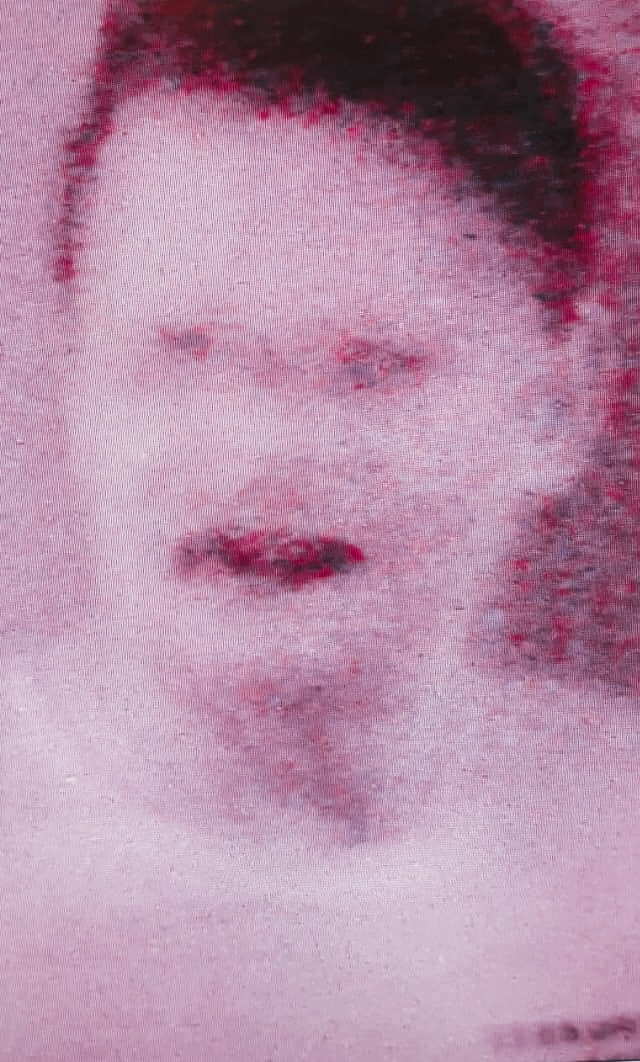
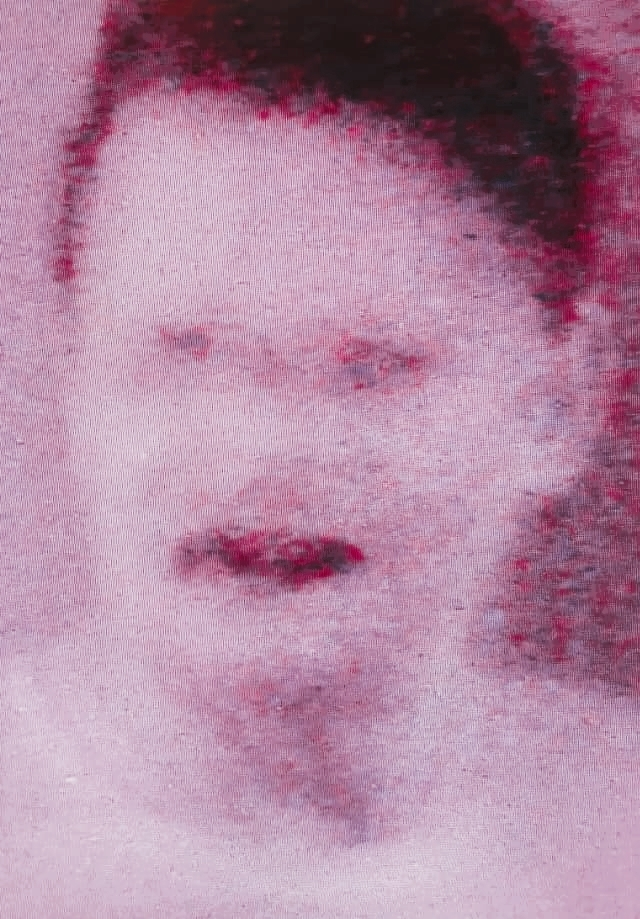
adjust image size and correct spelling in #about-us section

diff --git a/index.html b/index.html
@@ -61,6 +61,7 @@
                 The purpose of TSH is first and foremost to capture proof of paranormal activity.
                 These proofs of haunting is going to be the basis for the forthcoming book titled Swedish Hauntings,
                 he is currently working on.
+                
                 As well as paranormal investigations, we also offer help with spiritual cleansing of your home.
             </p>
         </div>
@@ -69,7 +70,7 @@
         </div>
         <div id="img2text">
             <p>This picture was taken with a full spectrum camera by one of our investigators in a haunted hotell in Helsingborg,Sweden.
-                It is mactually an image of Tom G Olausson and as you can see, his facial features is clearly distorted.
+                It is actually an image of Tom G Olausson and as you can see, his facial features is clearly distorted.
                 This is believed to be a paranormal phenomenon caused by spiritual activity.
             </p>
         </div>

diff --git a/assets/css/style.css b/assets/css/style.css
@@ -74,7 +74,7 @@ img {
 }
 
 .img2 {
-    width: 50%;
+    width: 40%;
     flex-basis: 100%;
     float: left;
     margin-left: 30px;
